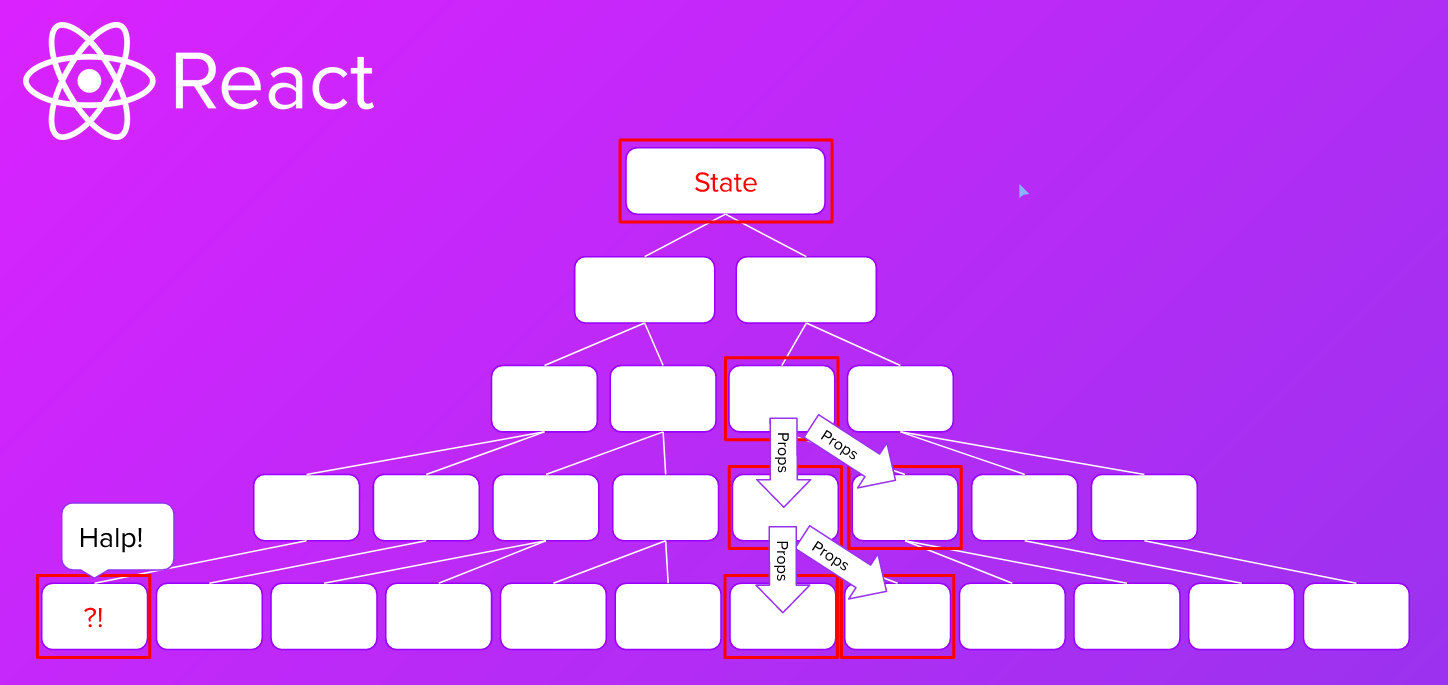
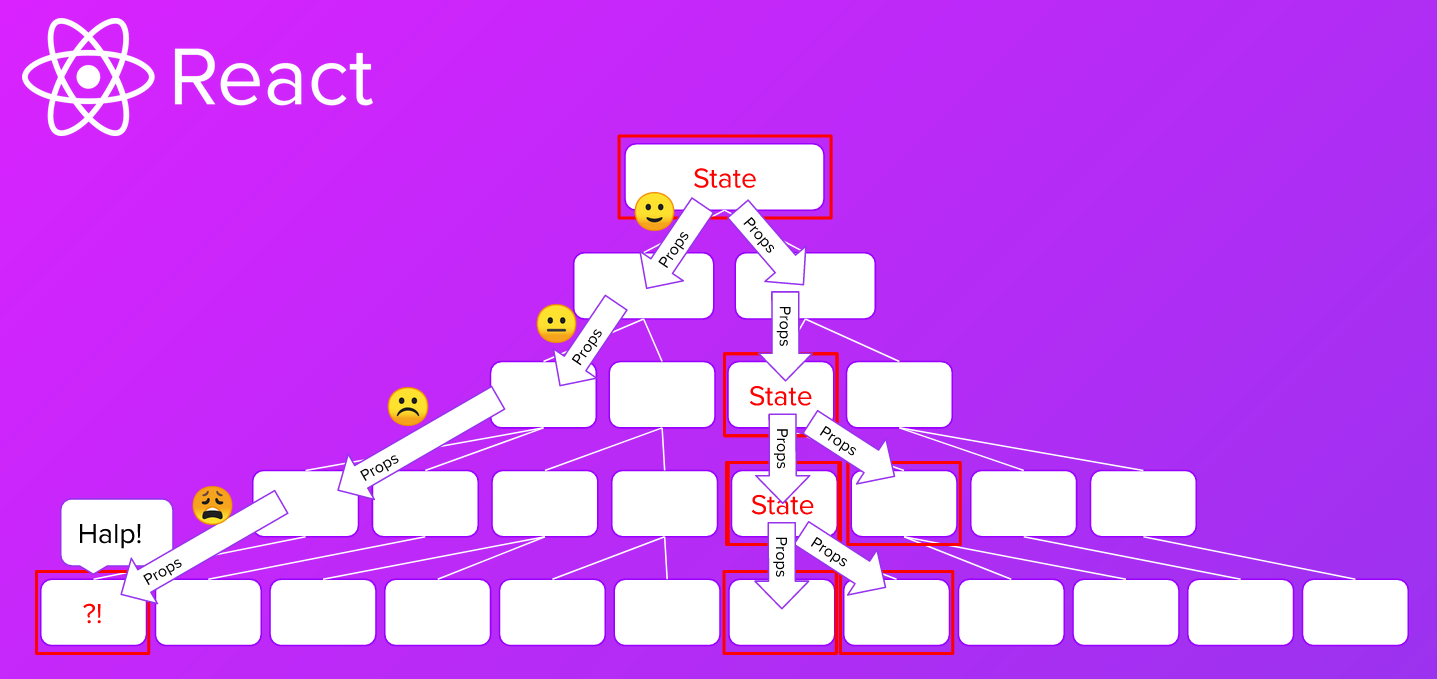
added notes and used class component as an example

diff --git a/src/components/Username.js b/src/components/Username.js
@@ -1,24 +1,48 @@
-import React, { useContext } from 'react';
+// import React, { useContext } from 'react';
+import React, { Component } from 'react';
 import { AppContext } from '../contexts/AppContext';
 
-const Username = () => {
-	const { addUsername, username } = useContext(AppContext);
-	return (
-		<div>
-			<h2>{!username ? 'Hello!' : `Hello, ${username}!`}</h2>
-			<form>
-				<label>
-					Name:{' '}
-					<input
-						type="text"
-						name="name"
-						placeholder="Add Your Name"
-						onChange={event => addUsername(event.target.value)}
-					/>
-				</label>
-			</form>
-		</div>
-	);
-};
+class Username extends Component {
+	static contextType = AppContext;
+	render() {
+		const { addUsername, username } = this.context;
+		return (
+			<div>
+				<h2>{!username ? 'Hello!' : `Hello, ${username}!`}</h2>
+				<form>
+					<label>
+						Name:{' '}
+						<input
+							type="text"
+							name="name"
+							placeholder="Add Your Name"
+							onChange={event => addUsername(event.target.value)}
+						/>
+					</label>
+				</form>
+			</div>
+		);
+	}
+}
+
+// const Username = () => {
+// 	const { addUsername, username } = useContext(AppContext);
+// 	return (
+// 		<div>
+// 			<h2>{!username ? 'Hello!' : `Hello, ${username}!`}</h2>
+// 			<form>
+// 				<label>
+// 					Name:{' '}
+// 					<input
+// 						type="text"
+// 						name="name"
+// 						placeholder="Add Your Name"
+// 						onChange={event => addUsername(event.target.value)}
+// 					/>
+// 				</label>
+// 			</form>
+// 		</div>
+// 	);
+// };
 
 export default Username;

diff --git a/src/index.js b/src/index.js
@@ -5,10 +5,10 @@ import App from './App';
 import * as serviceWorker from './serviceWorker';
 
 ReactDOM.render(
-  <React.StrictMode>
-    <App />
-  </React.StrictMode>,
-  document.getElementById('root')
+	<React.StrictMode>
+		<App />
+	</React.StrictMode>,
+	document.getElementById('root')
 );
 
 // If you want your app to work offline and load faster, you can change

diff --git a/README.md b/README.md
@@ -11,3 +11,108 @@ With state, you can only pass data downward. So sharing state would get tricky, 
 Prop drilling is a consequence of trying to have state available for a distant component, where it channels through components who might not even need this data - they are just handing this over to get to it's destination.
 
 ![Provider & Consumers](https://raw.githubusercontent.com/jakebirkes/react-bootcamp/react-context/img/provider-consumer.png)
+
+## Providing Context to Class Component
+
+```js
+import React, { Component } from 'react';
+import { AppContext } from '../contexts/AppContext';
+
+class Username extends Component {
+ static contextType = AppContext;
+ render() {
+  const { addUsername, username } = this.context;
+  return (
+   <div>
+    <h2>{!username ? 'Hello!' : `Hello, ${username}!`}</h2>
+    <form>
+     <label>
+      Name:{' '}
+      <input
+       type="text"
+       name="name"
+       placeholder="Add Your Name"
+       onChange={event => addUsername(event.target.value)}
+      />
+     </label>
+    </form>
+   </div>
+  );
+ }
+}
+```
+
+## Providing Context to Function Component
+
+### Using Consumer
+
+```js
+import React from "react";
+import UserContext from "./userContext";
+
+const Header () => (
+  <header>
+    <UserContext.Consumer>
+      {username => (
+        <p>Welcome, {username}!</p>
+      )}
+    </UserContext.Consumer>
+  </header>
+);
+
+export default Header;
+```
+
+```js
+import React from "react";
+import {ThemeContext} from "./themeContext";
+
+const Button = props => (
+  <ThemeContext.Consumer>
+    {context => (
+      <button onClick={context.toggleTheme} className={`${context.theme}-theme`}>Switch Theme</button>
+    )}
+  </ThemeContext.Consumer>
+);  
+```
+
+### Using Hook: `useContext()`
+
+```js
+import React, { useContext } from 'react';
+import { AppContext } from '../contexts/AppContext';
+
+const Username = () => {
+ const { addUsername, username } = useContext(AppContext);
+ return (
+  <div>
+   <h2>{!username ? 'Hello!' : `Hello, ${username}!`}</h2>
+   <form>
+    <label>
+     Name:{' '}
+     <input
+      type="text"
+      name="name"
+      placeholder="Add Your Name"
+      onChange={event => addUsername(event.target.value)}
+     />
+    </label>
+   </form>
+  </div>
+ );
+};
+```
+
+## Caveats
+
+- Don't just use context to avoid state, best if many needs it not just one or two - [From React](https://reactjs.org/docs/context.html#before-you-use-context)
+  - Useful for User info, themes, etc.
+
+- Don't use context when you could use state locally
+  - Forms
+
+- Wrap your Provider with the lowest common parent in the tree
+
+- Passing object as value, watch performance and refactor if necessary
+  - "Caveats" - [From React](https://reactjs.org/docs/context.html#caveats)
+  - ["React Context and Re-Renders: React Take the Wheel"](https://medium.com/@ryanflorence/react-context-and-re-renders-react-take-the-wheel-cd1d20663647)
